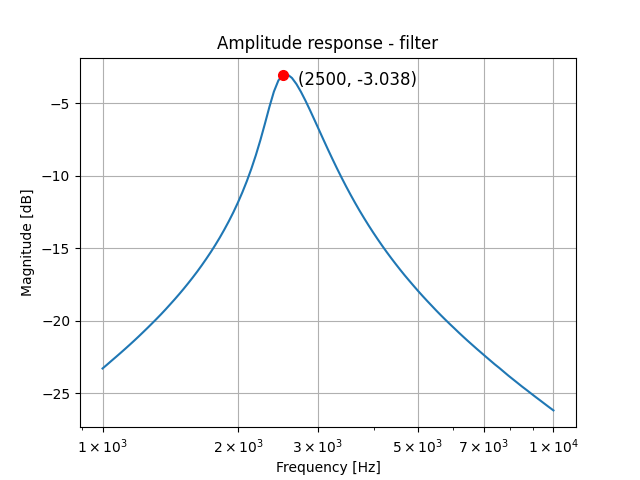
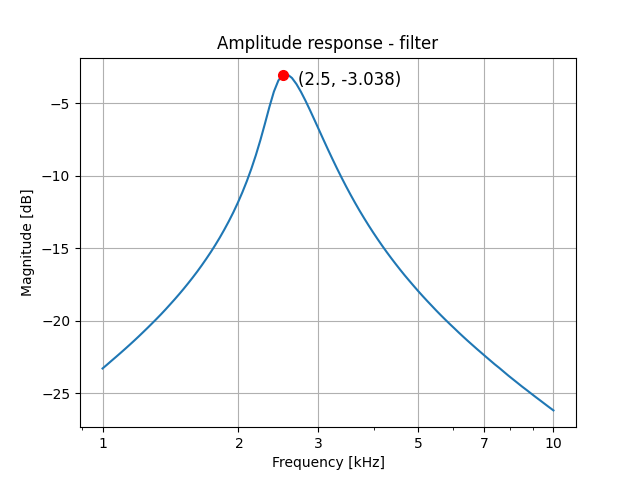
Improving the graphs

diff --git a/Code.py b/Code.py
@@ -7,8 +7,8 @@ import os
 
 #Definin the file paths
 Network_filter_path      = "Malinger\\Network_filter_dB.csv"
-Scope_diode_path         = "Malinger\\Scope_diode.csv"
 
+Scope_diode_path         = "Malinger\\Scope_diode.csv"
 spectrum_diode_dB_path   = "Malinger\\Spectrum_diode_overdiodeAndWave_RMS(dB).csv"
 
 scope_output_path        = "Malinger\\Scope_output2.csv"
@@ -79,16 +79,16 @@ os.makedirs(folder_path, exist_ok=True)
 
 # filter:
 desired_ticks = [1000, 2000, 3000, 5000, 7000, 10000]
-desired_labels = [f"${int(tick/1000)} \\times 10^3$" if tick != 10000 else f"${1} \\times 10^4$" for tick in desired_ticks]
+desired_labels = [f"${int(tick/1000)}$" if tick != 10000 else f"${10}$" for tick in desired_ticks]
 plt.semilogx(Network_filter_x, Network_filter_y)
 plt.xticks(desired_ticks, desired_labels)
 plt.title('Amplitude response - filter')
-plt.xlabel('Frequency [Hz]')
+plt.xlabel('Frequency [kHz]')
 plt.ylabel('Magnitude [dB]')
 plt.grid()
 
 Network_filter_x_2500, Network_filter_y_2500= freq_to_mag(2500, Network_filter_x, Network_filter_y)
-plt.text(Network_filter_x_2500+200, Network_filter_y_2500-1, f'({2500}, {round(Network_filter_y_2500,3)})', fontsize=12, verticalalignment='bottom')
+plt.text(Network_filter_x_2500+200, Network_filter_y_2500-1, f'({2.5}, {round(Network_filter_y_2500,3)})', fontsize=12, verticalalignment='bottom')
 plt.plot(Network_filter_x_2500, Network_filter_y_2500, marker='o', markersize=7, color='red')
 # Network_filter_x_1250, Network_filter_y_1250= freq_to_mag(1250, Network_filter_x, Network_filter_y)
 # plt.text(Network_filter_x_1250+100, Network_filter_y_1250-1, f'({1250}, {round(Network_filter_y_1250,3)})', fontsize=12, verticalalignment='bottom')
@@ -101,53 +101,58 @@ plt.savefig('Graphs\Amplitude_Response_filter.png')
 
 # #diode:
 plt.figure()
-plt.plot(Scope_diode_before_x, Scope_diode_before_y)
-plt.plot(Scope_diode_after_x, Scope_diode_after_y)
+plt.plot(np.array(Scope_diode_before_x)*1000, Scope_diode_before_y)
+plt.plot(np.array(Scope_diode_after_x)*1000, Scope_diode_after_y)
 plt.title('Oscilloscope - diode')
-plt.xlabel('Time [s]')
+plt.xlabel('Time [ms]')
 plt.ylabel('Magnitude [V]')
-plt.legend(['Original signal', 'Signal after diode'])
+plt.legend(['Input signal', 'Output signal'])
 plt.grid()
 plt.savefig('Graphs\Oscilloscope_diode.png')
 
 plt.figure()
-plt.plot(spectrum_diode_dB_before_x, spectrum_diode_dB_before_y)
-plt.plot(spectrum_diode_dB_after_x, spectrum_diode_after_dB_y)
-plt.title('Frequency spectrum- diode')
-plt.xlabel('Frequency [Hz]')
+plt.plot(np.array(spectrum_diode_dB_before_x)/1000, spectrum_diode_dB_before_y)
+plt.plot(np.array(spectrum_diode_dB_after_x)/1000, spectrum_diode_after_dB_y)
+plt.title('Frequency spectrum - diode')
+plt.xlabel('Frequency [kHz]')
 plt.ylabel('Magnitude [dB]')
 plt.grid()
-plt.legend(['Original signal', 'Signal after diode'])
+plt.legend(['Input signal', 'Output signal'])
+
+
 plt.savefig('Graphs\Frequency_spectrum_diode.png')
 
 
 #result:
 plt.figure()
-plt.plot(spectrum_output_dB_before_x, spectrum_output_dB_before_y)
-plt.plot(spectrum_output_dB_after_x, spectrum_output_dB_after_y)
+plt.plot(np.array(spectrum_output_dB_before_x)/1000, spectrum_output_dB_before_y)
+plt.plot(np.array(spectrum_output_dB_after_x)/1000, spectrum_output_dB_after_y)
 
 plt.title('Frequency spectrum - Output')
-plt.xlabel('Frequency [Hz]')
+plt.xlabel('Frequency [kHz]')
 plt.ylabel('Magnitude [dB]')
 plt.grid()
+plt.legend(['$x_1(t)$', '$\\hat{x}_2(t)$'])
 
 spectrum_output_dB_after_x_2500, spectrum_output_dB_after_y_2500= freq_to_mag(2500,spectrum_output_dB_after_x, spectrum_output_dB_after_y)
-plt.text(spectrum_output_dB_after_x_2500+200, spectrum_output_dB_after_y_2500-1, f'({2500}, {round(spectrum_output_dB_after_y_2500,3)})', fontsize=12, verticalalignment='bottom')
-plt.plot(spectrum_output_dB_after_x_2500, spectrum_output_dB_after_y_2500, marker='o', markersize=7, color='red')
+plt.text(spectrum_output_dB_after_x_2500/1000+.200, spectrum_output_dB_after_y_2500-1, f'({2.5}, {round(spectrum_output_dB_after_y_2500,3)})', fontsize=12, verticalalignment='bottom')
+plt.plot(np.array(spectrum_output_dB_after_x_2500)/1000, spectrum_output_dB_after_y_2500, marker='o', markersize=7, color='red')
 spectrum_output_dB_after_x_1250, spectrum_output_dB_after_y_1250 = freq_to_mag(1250, spectrum_output_dB_after_x, spectrum_output_dB_after_y)
-plt.text(spectrum_output_dB_after_x_1250 + 200, spectrum_output_dB_after_y_1250 - 7, f'({1250}, {round(spectrum_output_dB_after_y_1250, 3)})', fontsize=12, verticalalignment='bottom')
-plt.plot(spectrum_output_dB_after_x_1250, spectrum_output_dB_after_y_1250, marker='o', markersize=7, color='red')
+plt.text(spectrum_output_dB_after_x_1250/1000 + .200, spectrum_output_dB_after_y_1250 - 7, f'({1.25}, {round(spectrum_output_dB_after_y_1250, 3)})', fontsize=12, verticalalignment='bottom')
+plt.plot(np.array(spectrum_output_dB_after_x_1250)/1000, spectrum_output_dB_after_y_1250, marker='o', markersize=7, color='red')
 
 plt.savefig('Graphs\Frequency_spectrum_Output.png')
 
 plt.figure()
-plt.plot(scope_output_before_x, scope_output_before_y)
-plt.plot(scope_output_after_x, np.array(scope_output_after_y))
+plt.plot(np.array(scope_output_before_x)*1000, scope_output_before_y)
+plt.plot(np.array(scope_output_after_x)*1000, np.array(scope_output_after_y))
 plt.title('Oscilloscope - Output')
-plt.xlabel('Frequency [Hz]')
+plt.xlabel('Time [ms]')
 plt.ylabel('Magnitude [V]')
 plt.grid()
+plt.legend(['$x_1(t)$', '$\\hat{x}_2(t)$'], loc='upper right')
 
 plt.savefig('Graphs\Oscilloscope_Output.png')
+
 
 
